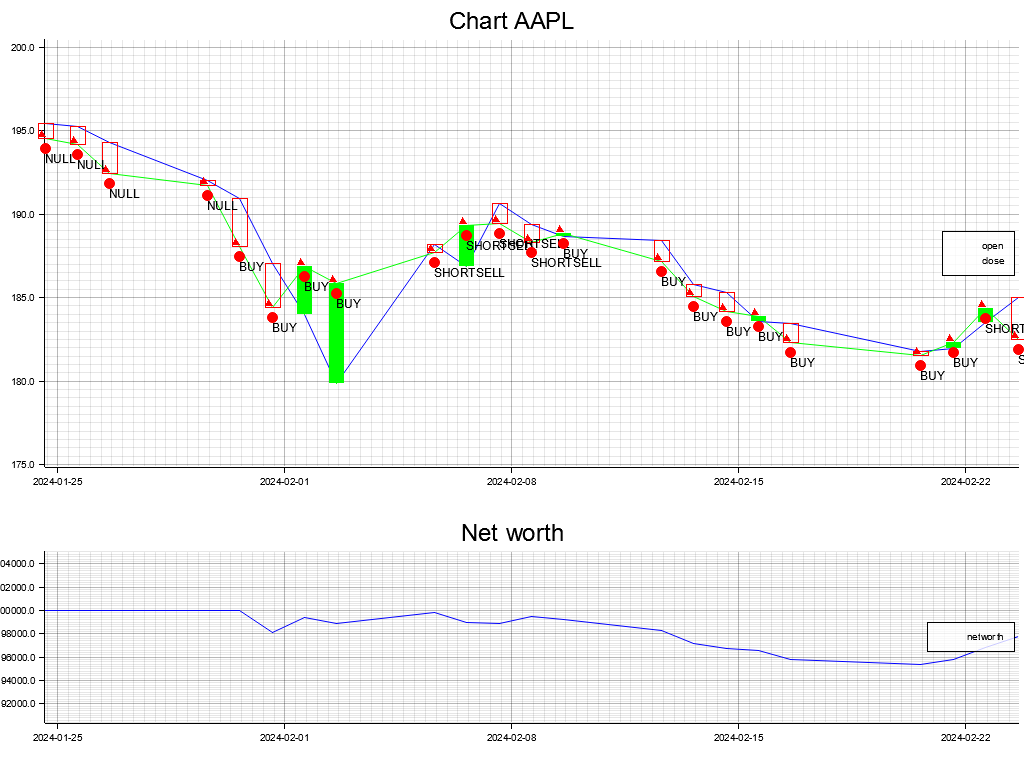
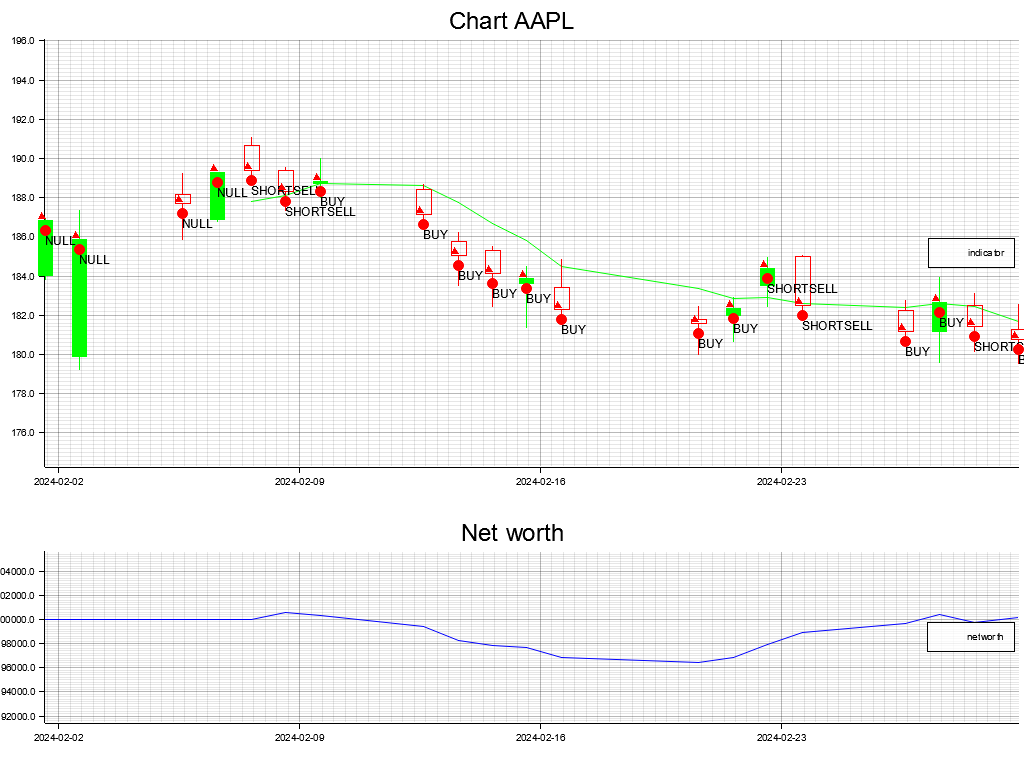
added OHLC and related chart

Changed region(s): [[0.0, 0.0312, 1.0, 0.6562], [0.0, 0.7188, 1.0, 0.9688]]

diff --git a/src/charts.rs b/src/charts.rs
@@ -2,47 +2,16 @@ use plotters::prelude::*;
 use crate::{datas};
 use chrono::{DateTime, FixedOffset};
 use datas::Data;
+use crate::backtester::Backtest;
 use crate::orders::Order;
 
-pub fn plot(quotes:&Data)->Result<(), Box<dyn std::error::Error>>{
-
-    let yahoo_datetimes:Vec<DateTime<FixedOffset>> = quotes.timestamps();
-    let opens:Vec<f64> = quotes.open();
-    let closes:Vec<f64> = quotes.close();
-
-    // if folder does not exists no plotting happens: should implement check and create folder
-    let root = BitMapBackend::new("examples/images/plot.png", (640, 480)).into_drawing_area();
-    let _ = root.fill(&WHITE);
-
-    let min_opens = *opens.iter().min_by(|x,y|x.partial_cmp(y).unwrap()).unwrap()-5.0;
-    let max_opens = *opens.iter().max_by(|x,y|x.partial_cmp(y).unwrap()).unwrap()+5.0;
-
-    let mut chart = ChartBuilder::on(&root)
-        .margin(5)
-        .caption("Chart ".to_owned() + quotes.ticker(), ("sans-serif", 30).into_font())
-        .x_label_area_size(40)
-        .y_label_area_size(40)
-        .build_cartesian_2d(yahoo_datetimes[0]..yahoo_datetimes[yahoo_datetimes.len()-1], min_opens..max_opens).unwrap();
-
-    chart.configure_mesh().x_label_formatter(&|dt|dt.format("%Y-%m-%d").to_string()).draw().unwrap();
-
-    let _ = chart.draw_series(LineSeries::new((0..opens.len()).map(|i| (yahoo_datetimes[i], opens[i])), &BLUE)).unwrap().label("open");
-    let _ = chart.draw_series(LineSeries::new((0..closes.len()).map(|i|(yahoo_datetimes[i], closes[i])),&GREEN)).unwrap().label("close");
-
-    chart.configure_series_labels()
-        .border_style(&BLACK)
-        .background_style(&WHITE.mix(0.8))
-        .draw()
-        .unwrap();
-
-    println!("Plotting {:?} from {:?}",{quotes.ticker()},{min_opens});
-    Ok(())
-}
-
-pub fn plot_nw(quotes:&Data, position:&Vec<f64>, account:&Vec<f64>, orders:&Vec<Order>)->Result<(), Box<dyn std::error::Error>>{
-    let yahoo_datetimes:Vec<DateTime<FixedOffset>> = quotes.timestamps();
-    let opens:Vec<f64> = quotes.open();
-    let closes:Vec<f64> = quotes.close();
+//pub fn plot(quotes:&Data, position:&Vec<f64>, account:&Vec<f64>, orders:&Vec<Order>) ->Result<(), Box<dyn std::error::Error>>{
+pub fn plot(backtest:Backtest) ->Result<(), Box<dyn std::error::Error>>{
+    let yahoo_datetimes:Vec<DateTime<FixedOffset>> = backtest.quotes().timestamps();
+    let opens:Vec<f64> = backtest.quotes().open();
+    let highs:Vec<f64> = backtest.quotes().high();
+    let lows:Vec<f64> = backtest.quotes().low();
+    let closes:Vec<f64> = backtest.quotes().close();
 
     // if folder does not exists no plotting happens: should implement check and create folder
     let root = BitMapBackend::new("examples/images/plot.png", (1024, 768)).into_drawing_area();
@@ -50,36 +19,42 @@ pub fn plot_nw(quotes:&Data, position:&Vec<f64>, account:&Vec<f64>, orders:&Vec<
 
     let (upper,lower) = root.split_vertically(512);
 
-    let min_opens = *opens.iter().min_by(|x,y|x.partial_cmp(y).unwrap()).unwrap()-5.0;
-    let max_opens = *opens.iter().max_by(|x,y|x.partial_cmp(y).unwrap()).unwrap()+5.0;
+    let min_lows = *lows.iter().min_by(|x,y|x.partial_cmp(y).unwrap()).unwrap()-5.0;
+    let max_highs = *highs.iter().max_by(|x,y|x.partial_cmp(y).unwrap()).unwrap()+5.0;
 
     let mut chart = ChartBuilder::on(&upper)
         .margin(5)
-        .caption("Chart ".to_owned() + quotes.ticker(), ("sans-serif", 30).into_font())
+        .caption("Chart ".to_owned() + backtest.quotes().ticker(), ("sans-serif", 30).into_font())
         .x_label_area_size(40)
         .y_label_area_size(40)
-        .build_cartesian_2d(yahoo_datetimes[0]..yahoo_datetimes[yahoo_datetimes.len()-1], min_opens..max_opens).unwrap();
+        .build_cartesian_2d(yahoo_datetimes[0]..yahoo_datetimes[yahoo_datetimes.len()-1], min_lows..max_highs).unwrap();
 
     chart.configure_mesh().x_label_formatter(&|dt|dt.format("%Y-%m-%d").to_string()).draw().unwrap();
 
-    let _ = chart.draw_series(LineSeries::new((0..opens.len()).map(|i| (yahoo_datetimes[i], opens[i])), &BLUE)).unwrap().label("open");
-    let _ = chart.draw_series(LineSeries::new((0..closes.len()).map(|i|(yahoo_datetimes[i], closes[i])),&GREEN)).unwrap().label("close");
+    let indicator = backtest.strategy().indicator();
+    let Some(index) = indicator.iter().position(|&x|x!=-1.0) else {todo!()};
+    //let _ = chart.draw_series(LineSeries::new((0..opens.len()).map(|i| (yahoo_datetimes[i], opens[i])), &BLUE)).unwrap().label("open");
+    //let _ = chart.draw_series(LineSeries::new((0..closes.len()).map(|i|(yahoo_datetimes[i], closes[i])),&GREEN)).unwrap().label("close");
+    let _ = chart.draw_series(LineSeries::new((index..closes.len()).map(|i|(yahoo_datetimes[i],indicator[i])),&GREEN)).unwrap().label("indicator");
 
 
-    struct CustomRow {//not need to have a dedicated struct?
+    struct CustomRow {//no need to have a dedicated struct?
         date: DateTime<FixedOffset>,
         value1: f64,
         value2: f64,
+        value3: f64,
+        value4: f64,
     }
-    let x:Vec<CustomRow> = yahoo_datetimes.iter().zip(opens.iter()).zip(closes.iter()).map(|((date,&open),&close)|CustomRow{date:*date,value1:open,value2:close}).collect();
+    let x:Vec<CustomRow> = yahoo_datetimes.iter().zip(opens.iter()).zip(highs.iter()).zip(lows.iter()).zip(closes.iter())
+        .map(|((((date,&open),&high),&low),&close)|CustomRow{date:*date,value1:open,value2:high,value3:low,value4:close }).collect();
 
     let _ = chart.draw_series(
         x.iter().map(|x| {
-            CandleStick::new(x.date,x.value1, x.value1, x.value2, x.value2, GREEN.filled(), RED, 15)
+            CandleStick::new(x.date,x.value1, x.value2, x.value3, x.value4, GREEN.filled(), RED, 15)
         }),);
 
     //add marker and label
-    for ((x, y),z) in yahoo_datetimes.iter().zip(closes.iter()).zip(orders.iter()) {
+    for ((x, y),z) in yahoo_datetimes.iter().zip(closes.iter()).zip(backtest.orders().iter()) {
         chart.draw_series(PointSeries::of_element(
             vec![(*x, *y)],
             5, // Circle marker size
@@ -100,7 +75,7 @@ pub fn plot_nw(quotes:&Data, position:&Vec<f64>, account:&Vec<f64>, orders:&Vec<
         .unwrap();
 
 
-    let networth:Vec<f64> = closes.iter().zip(position.iter()).zip(account.iter()).map(|((&a,&b),&c)|a*b+c).collect();
+    let networth:Vec<f64> = closes.iter().zip(backtest.position().iter()).zip(backtest.account().iter()).map(|((&a,&b),&c)|a*b+c).collect();
     let min_nw = *networth.iter().min_by(|x,y|x.partial_cmp(y).unwrap()).unwrap()-5000.0;
     let max_nw = *networth.iter().max_by(|x,y|x.partial_cmp(y).unwrap()).unwrap()+5000.0;
 

diff --git a/src/strategies.rs b/src/strategies.rs
@@ -10,6 +10,7 @@ pub struct Strategy{
     //name:String,
     name:&'static str,
     choices:Vec<Order>,
+    indicator:Vec<f64>,
 }
 
 impl Strategy{
@@ -17,15 +18,18 @@ impl Strategy{
         return self.choices.clone();
     }
     pub fn name(&self)->&'static str{ return self.name;}
-    pub fn revert(&self)->Self{
+    pub fn indicator(&self)->Vec<f64>{ return self.indicator.clone();}
+    pub fn invert(&self) ->Self{
         let length = self.choices.len();
-        let mut rev_choices = self.choices.clone();
+        let mut inv_choices = self.choices.clone();
         for i in 0..length{
-            if self.choices[i]==BUY {rev_choices[i]=SHORTSELL} else if self.choices[i]==SHORTSELL {rev_choices[i]=BUY}
+            if self.choices[i]==BUY { inv_choices[i]=SHORTSELL} else if self.choices[i]==SHORTSELL { inv_choices[i]=BUY}
         }
+        let indicator = self.indicator.clone();
         Strategy{
-            name:"revert",
-            choices:rev_choices,
+            name:"invert",
+            choices: inv_choices,
+            indicator,
         }
     }
     pub fn to_csv(&self)->Result<(),Box<dyn Error>>{
@@ -36,7 +40,7 @@ impl Strategy{
     }
 }
 
-/// specific strategies should only implement function to define choices: but why not returning directly Strategy?
+// specific strategies should only implement function to define choices: but why not returning directly Strategy?
 pub fn buy_and_hold(quotes:Data) ->Vec<Order>{
     let length = quotes.timestamps().len();
     return vec![BUY;length];
@@ -46,27 +50,33 @@ pub fn buy_n_hold(quotes:Data)->Strategy{
     let length = quotes.timestamps().len();
     let choices = vec![BUY;length];
     let name = "buy and hold";
+    let indicator = vec![-1.;length];
     Strategy{
         name:name,
         choices:choices,
+        indicator,
     }
 }
 pub fn short_n_hold(quotes:Data)->Strategy{
     let length = quotes.timestamps().len();
     let choices = vec![SHORTSELL;length];
     let name = "short and hold";
+    let indicator = vec![-1.;length];
     Strategy{
         name:name,
         choices:choices,
+        indicator,
     }
 }
 pub fn do_nothing(quotes:Data)->Strategy{
     let length = quotes.timestamps().len();
     let choices = vec![NULL;length];
     let name = "do nothing";
+    let indicator = vec![-1.;length];
     Strategy{
         name:name,
         choices:choices,
+        indicator,
     }
 }
 pub fn sma_cross(quotes:Data, period:usize)->Strategy{
@@ -83,8 +93,10 @@ pub fn sma_cross(quotes:Data, period:usize)->Strategy{
         }
     }
     let name = "sma cross";
+    let indicator = indicator.indicator();
     Strategy{
         name:name,
         choices:choices,
+        indicator,
     }
 }

diff --git a/src/backtester.rs b/src/backtester.rs
@@ -2,6 +2,7 @@ use std::collections::HashMap;
 use crate::strategies::Strategy;
 use crate::{orders, Result};
 use crate::datas::Data;
+use crate::orders::Order;
 
 pub struct Backtest{
     quotes:Data,
@@ -29,29 +30,13 @@ impl Backtest{
             account:account,
         })
     }
-    pub fn print_report(&self){
-        for i in 1..self.quotes.timestamps().len(){
-            println!("date = {} - close = {:.2} - choice was = {:?} under strategy = {:} with a position = {:} worth = {:.2} and account {:.2}\
-             for a net worth = {:.2}",
-                     self.quotes.timestamps()[i].format("%Y-%m-%d"),self.quotes.close()[i],
-                     self.strategy.choices()[i],self.strategy.name(),self.position[i],self.position[i]*self.quotes.close()[i],self.account[i],
-            self.account[i]+self.position[i]*self.quotes.close()[i]);
-        }
-    }
-    pub fn print_report_arg(&self, list:&[&str])
-    {
-        //+ semplice forse fare iter su list e match {open => Data::close(),...}
-        let functions : Vec<fn(&Data)->Vec<f64>>=vec![Data::close];
-        for i in 1..self.quotes.timestamps().len(){
-            println!("{} = {:.2}",&list[0],functions[0 as usize](&self.quotes)[i]);
-        }
-    }
 
-    pub fn position(&self)->Vec<f64>{
-        return self.position.clone();
-    }
+    pub fn quotes(&self)->&Data{return &self.quotes}
+    pub fn orders(&self)->Vec<Order>{return self.strategy.choices()}
+    pub fn position(&self)->Vec<f64>{return self.position.clone()}
     pub fn account(&self)->Vec<f64>{return self.account.clone();}
-    pub fn print_report_arg2(&self, list:&[&str]){
+    pub fn strategy(&self)->Strategy{return self.strategy.clone();}
+    pub fn print_report_arg(&self, list:&[&str]){
         let mut data_functions: HashMap<&str, fn(&Data)->Vec<f64>>=HashMap::new();
         data_functions.insert("close", Data::close);
         data_functions.insert("open", Data::open);

diff --git a/examples/backtesting.rs b/examples/backtesting.rs
@@ -1,12 +1,12 @@
 use backtester::backtester::Backtest;
-use backtester::charts::plot_nw;
+use backtester::charts::plot;
 use backtester::datas::Data;
 use backtester::strategies::{buy_n_hold, do_nothing, short_n_hold, sma_cross};
 use backtester::Result;
 
 fn main()->Result<()>{
     let quotes = Data::new_from_yahoo("AAPL".to_string())?;
-    let bnh_strategy = buy_n_hold(quotes.clone());
+    /*let bnh_strategy = buy_n_hold(quotes.clone());
     let mut bnh_tester = Backtest::new(quotes.clone(),bnh_strategy.clone(),100000f64)?;
     //print_report(quotes,strategy);
     bnh_tester.calculate();
@@ -23,12 +23,13 @@ fn main()->Result<()>{
     let mut revert_bnh_tester = Backtest::new(quotes.clone(),revert_bnh_strategy.clone(),100000f64)?;
     revert_bnh_tester.calculate();
     revert_bnh_tester.print_report_arg2(&["date","open","close","position","account"]);
-
+*/
     let sma_cross_strategy = sma_cross(quotes.clone(),5);
     let mut sma_cross_tester = Backtest::new(quotes.clone(),sma_cross_strategy.clone(),100000f64)?;
     sma_cross_tester.calculate();   //da togliere perchè superfluo va chiamata all'inizializzazione in automatico
-    sma_cross_tester.print_report_arg2(&["date","open","close","position","account"]);
-    _ = plot_nw(&quotes,&sma_cross_tester.position(),&sma_cross_tester.account(),&sma_cross_strategy.choices());
+    sma_cross_tester.print_report_arg(&["date","open","close","position","account"]);
+    //_ = plot(&quotes, &sma_cross_tester.position(), &sma_cross_tester.account(), &sma_cross_strategy.choices());
+    _ = plot(sma_cross_tester);
 
     Ok(())
 }

diff --git a/src/datas.rs b/src/datas.rs
@@ -10,11 +10,14 @@ pub fn download_data(ticker:&str, interval:&str, range:&str)->Result<Vec<Quote>>
     let quotes = response.quotes().unwrap();
     return Ok(quotes);
 }
+///struct to contain all market data (ticker + OHLC)
 #[derive(Clone)]
 pub struct Data{
     ticker:String,
     datetime:Vec<DateTime<FixedOffset>>,
     open:Vec<f64>,
+    high:Vec<f64>,
+    low:Vec<f64>,
     close:Vec<f64>,
 }
 
@@ -24,11 +27,15 @@ impl Data{
         let timestamps:Vec<u64> = quotes.iter().map(|s|s.timestamp).collect();
         let yahoo_datetimes: Vec<DateTime<FixedOffset>> = timestamps.iter().map(|&ts|{FixedOffset::east_opt(0).unwrap().timestamp_opt(ts as i64,0).unwrap()}).collect();
         let opens:Vec<f64> = quotes.iter().map(|s|s.open).collect();
+        let highs:Vec<f64> = quotes.iter().map(|s|s.high).collect();
+        let lows:Vec<f64> = quotes.iter().map(|s|s.low).collect();
         let closes:Vec<f64> = quotes.iter().map(|s|s.close).collect();
         Ok(Data{
             ticker:ticker,
             datetime:yahoo_datetimes,
             open:opens,
+            high:highs,
+            low:lows,
             close:closes,
         })
     }
@@ -41,6 +48,8 @@ impl Data{
     pub fn open(&self)->Vec<f64>{
         return self.open.clone();
     }
+    pub fn high(&self)->Vec<f64>{return self.high.clone();}
+    pub fn low(&self)->Vec<f64>{return self.low.clone();}
     pub fn close(&self)->Vec<f64>{
         return self.close.clone();
     }

diff --git a/src/ta.rs b/src/ta.rs
@@ -2,6 +2,8 @@ use crate::datas::Data;
 use csv::Writer;
 use std::error::Error;
 
+///container for checking calculation of indicator vs mktdata
+#[derive(Clone)]
 pub struct Indicator{
     pub indicator:Vec<f64>,
     pub quotes:Data,
@@ -17,6 +19,9 @@ impl Indicator{
     }
     pub fn quotes(&self)->Data{
         return self.quotes.clone();
+    }
+    pub fn indicator(&self)->Vec<f64>{
+        return self.indicator.clone();
     }
 }
 

diff --git a/src/lib.rs b/src/lib.rs
@@ -1,7 +1,6 @@
 pub mod datas;
 pub mod errors;
 pub mod charts;
-pub mod reports;
 mod orders;
 pub mod strategies;
 pub mod backtester;
